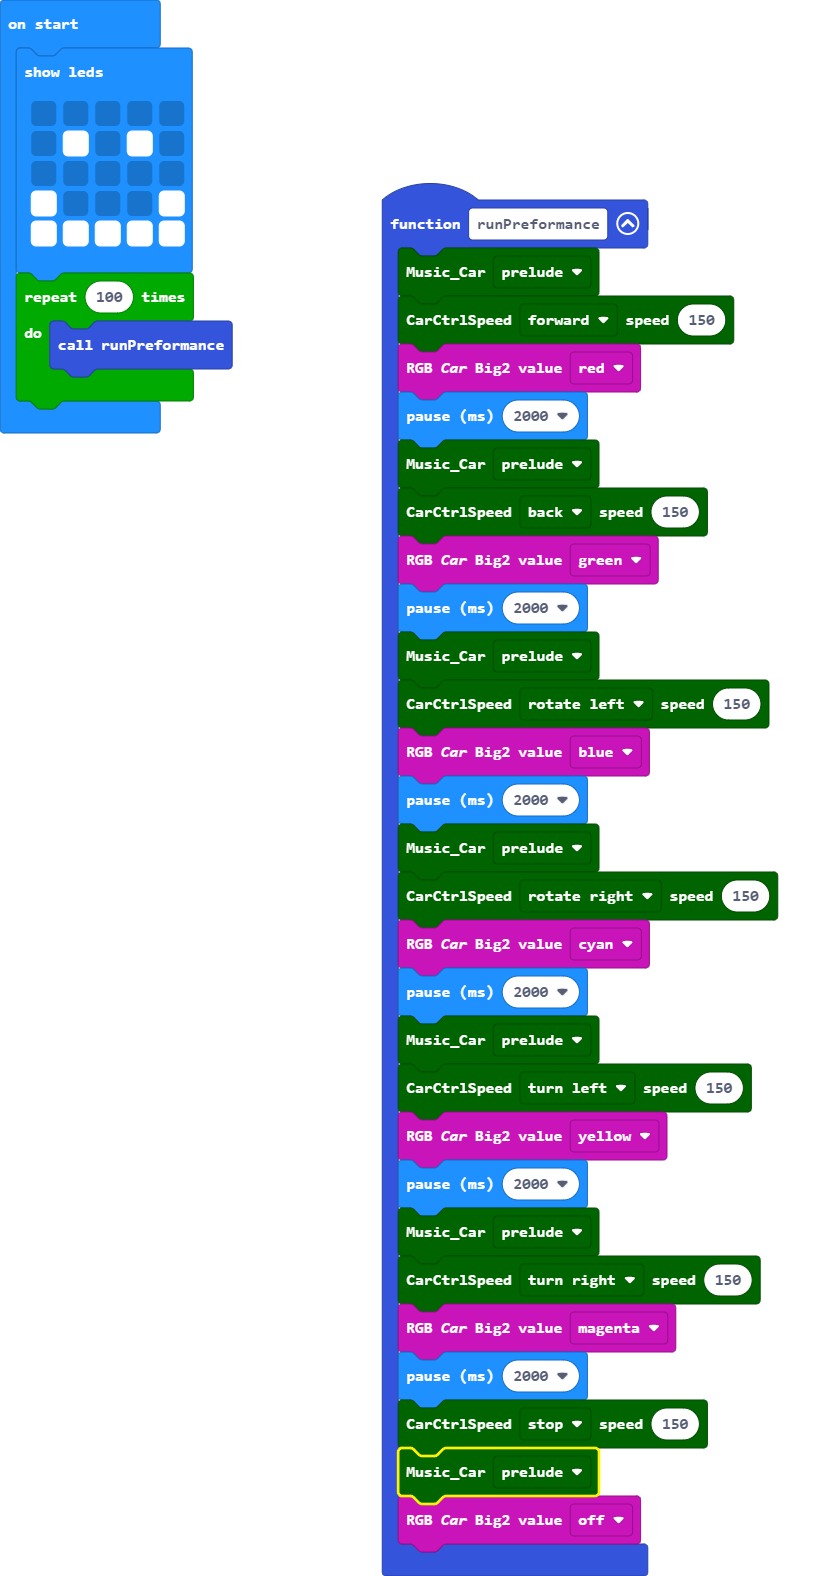
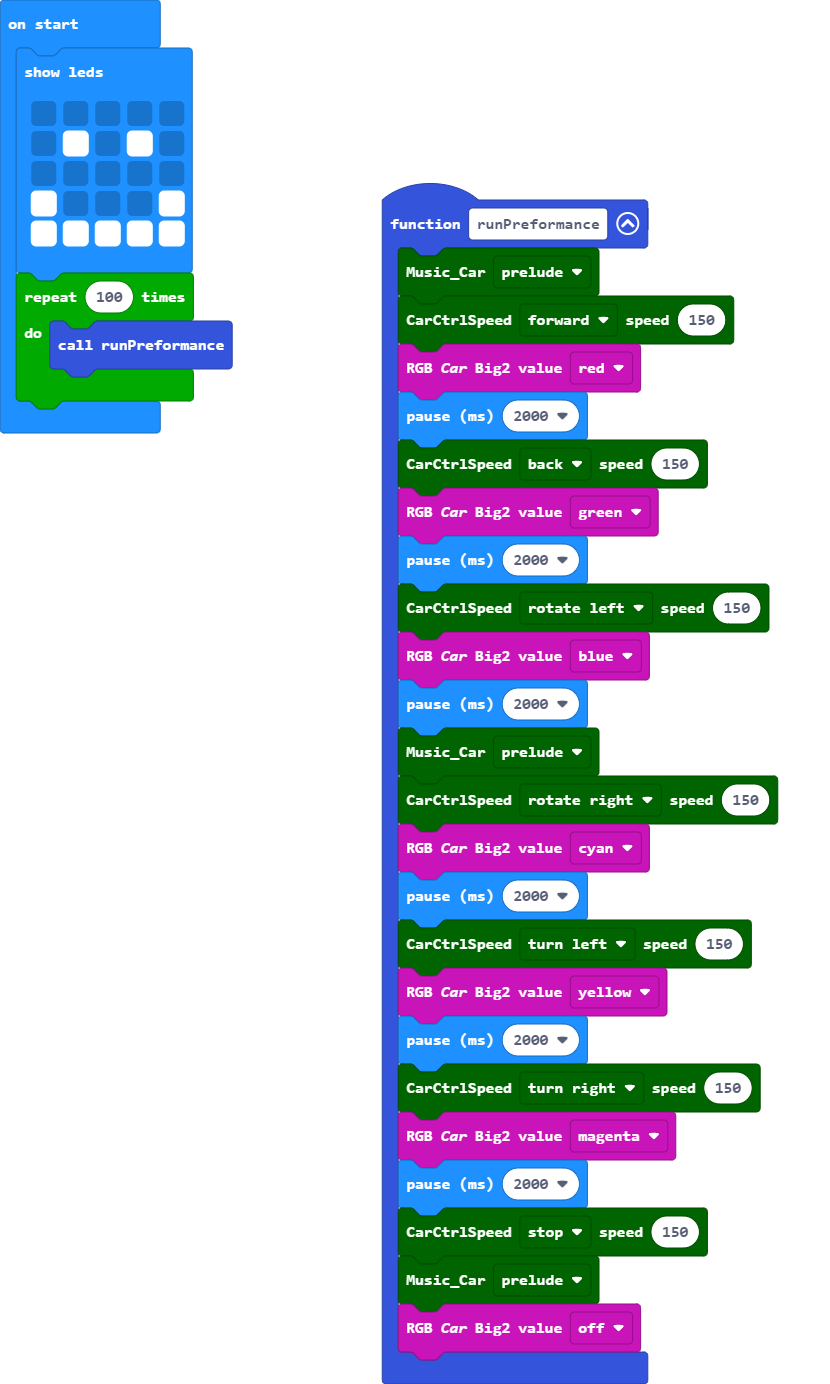
Fixed music issue

Changed region(s): [[0.4518, 0.0932, 0.9337, 0.9942], [0.0, 0.0, 0.3012, 0.3107]]

diff --git a/main.ts b/main.ts
@@ -3,11 +3,9 @@ function runPreformance () {
     mbit_Robot.CarCtrlSpeed(mbit_Robot.CarState.Car_Run, 150)
     mbit_Robot.RGB_Car_Big2(mbit_Robot.enColor.Red)
     basic.pause(2000)
-    mbit_Robot.Music_Car(mbit_Robot.enMusic.prelude)
     mbit_Robot.CarCtrlSpeed(mbit_Robot.CarState.Car_Back, 150)
     mbit_Robot.RGB_Car_Big2(mbit_Robot.enColor.Green)
     basic.pause(2000)
-    mbit_Robot.Music_Car(mbit_Robot.enMusic.prelude)
     mbit_Robot.CarCtrlSpeed(mbit_Robot.CarState.Car_SpinLeft, 150)
     mbit_Robot.RGB_Car_Big2(mbit_Robot.enColor.Blue)
     basic.pause(2000)
@@ -15,11 +13,9 @@ function runPreformance () {
     mbit_Robot.CarCtrlSpeed(mbit_Robot.CarState.Car_SpinRight, 150)
     mbit_Robot.RGB_Car_Big2(mbit_Robot.enColor.Cyan)
     basic.pause(2000)
-    mbit_Robot.Music_Car(mbit_Robot.enMusic.prelude)
     mbit_Robot.CarCtrlSpeed(mbit_Robot.CarState.Car_Left, 150)
     mbit_Robot.RGB_Car_Big2(mbit_Robot.enColor.Yellow)
     basic.pause(2000)
-    mbit_Robot.Music_Car(mbit_Robot.enMusic.prelude)
     mbit_Robot.CarCtrlSpeed(mbit_Robot.CarState.Car_Right, 150)
     mbit_Robot.RGB_Car_Big2(mbit_Robot.enColor.Pinkish)
     basic.pause(2000)
